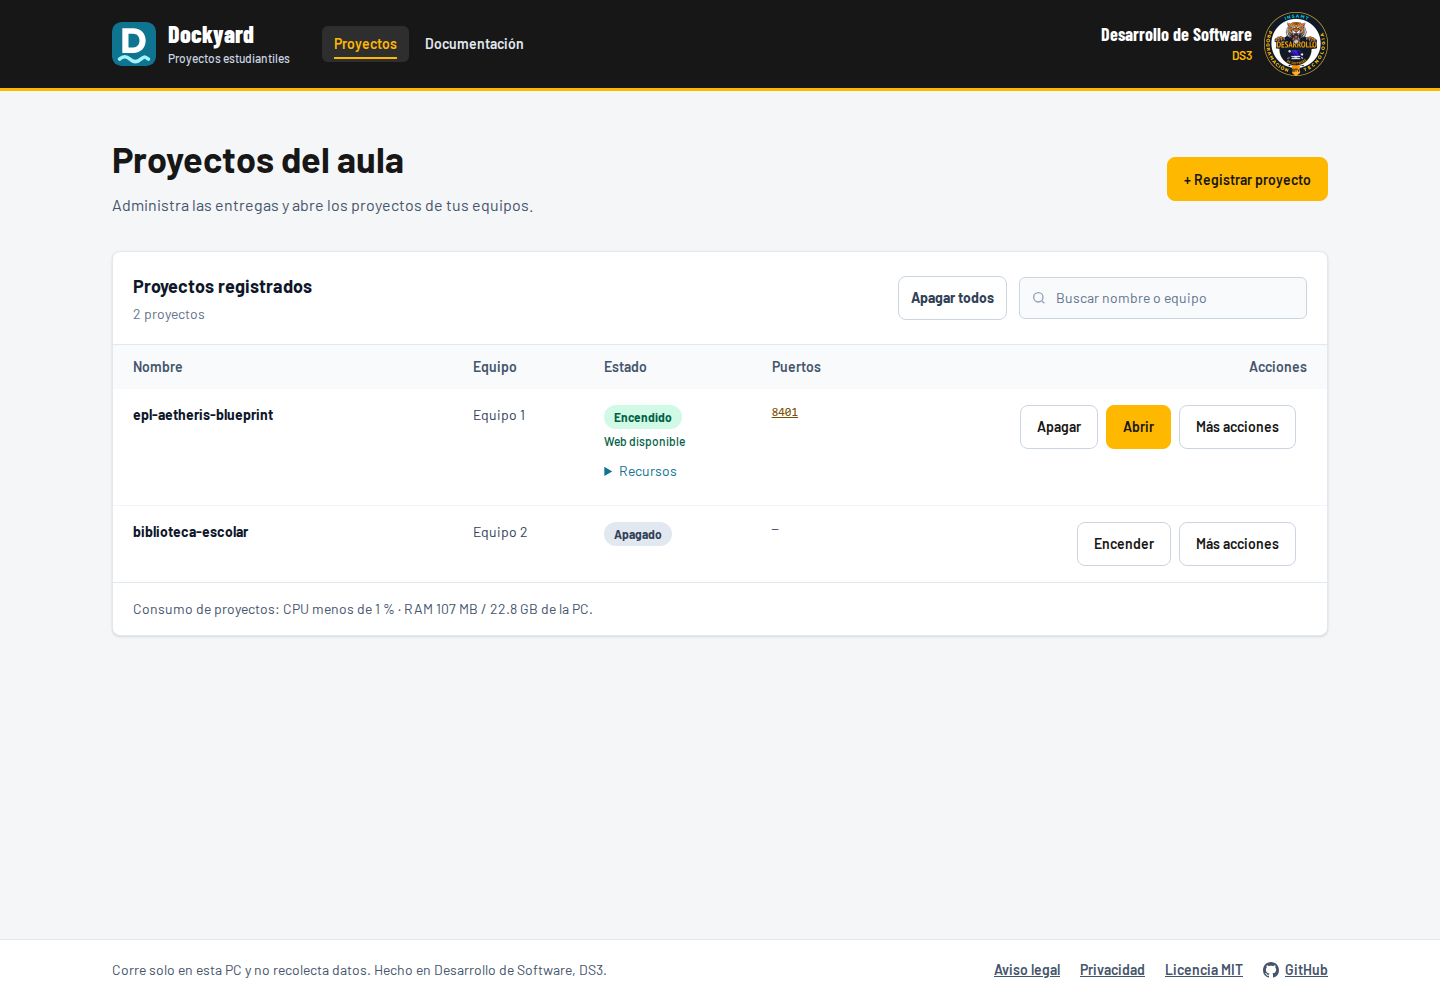
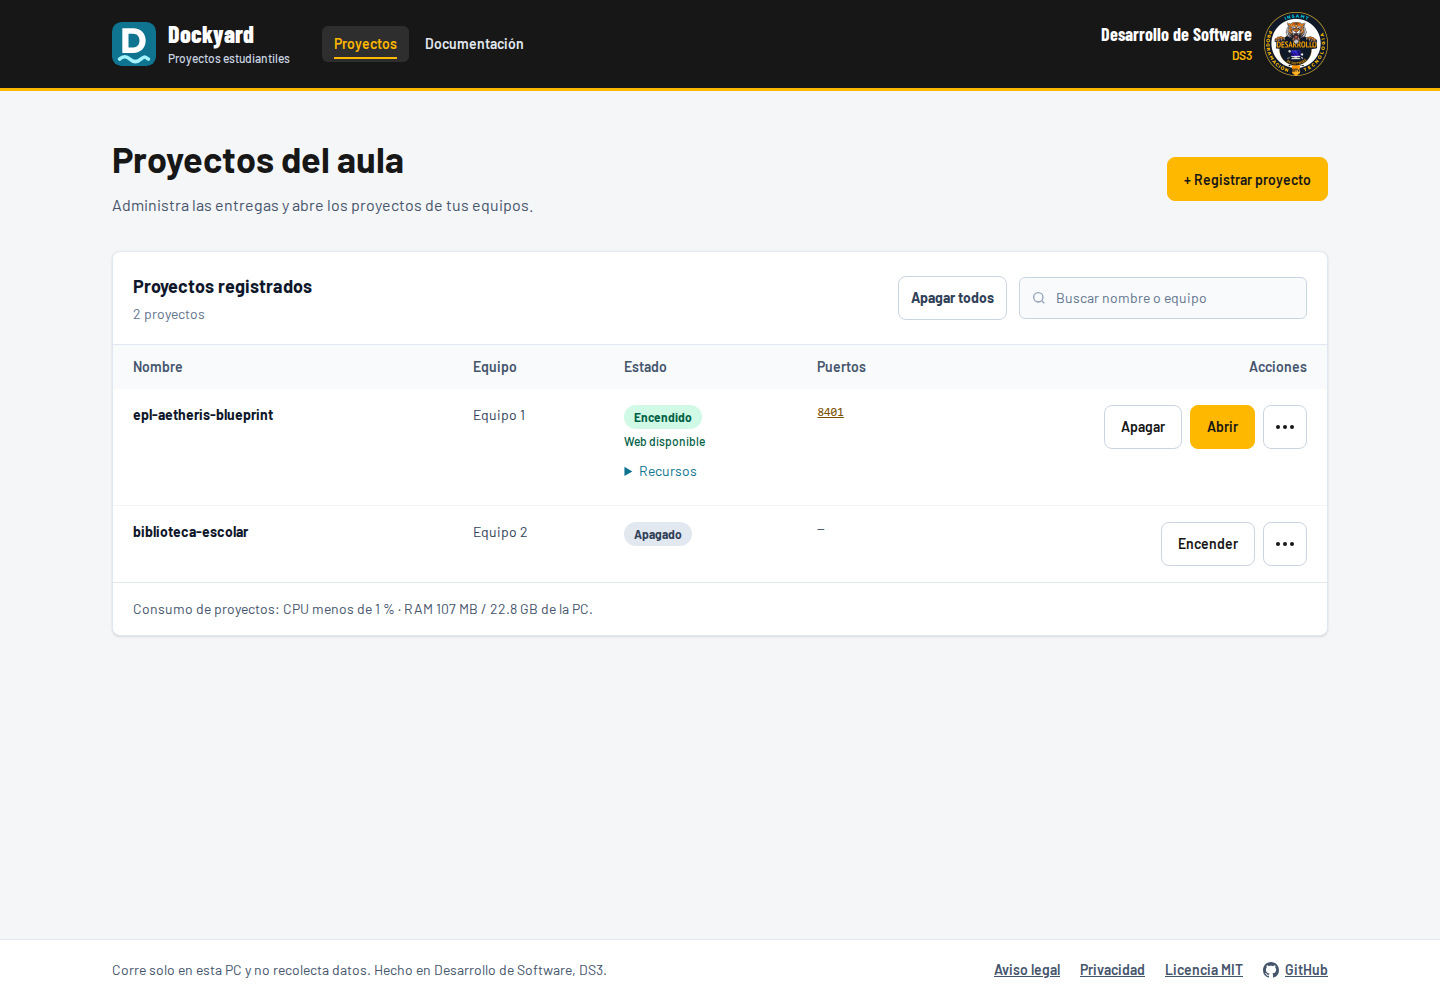
Usar un icono de tres puntos para las acciones secundarias

diff --git a/web/src/scripts/projects/rows/project-row.ts b/web/src/scripts/projects/rows/project-row.ts
@@ -184,7 +184,22 @@ function actionsCell(project: Project, handlers: RowHandlers): HTMLTableCellElem
   const stack = element('div', 'flex flex-col items-end gap-2')
   const menu = element('details', 'project-menu')
   menu.dataset.disclosure = 'actions'
-  const summary = element('summary', 'ui-button', 'Más acciones')
+  const summary = element('summary', 'ui-button')
+  summary.title = 'Más acciones'
+  const icon = document.createElementNS('http://www.w3.org/2000/svg', 'svg')
+  icon.setAttribute('viewBox', '0 0 24 24')
+  icon.setAttribute('width', '24')
+  icon.setAttribute('height', '24')
+  icon.setAttribute('fill', 'currentColor')
+  icon.setAttribute('aria-hidden', 'true')
+  for (const cx of [5, 12, 19]) {
+    const dot = document.createElementNS('http://www.w3.org/2000/svg', 'circle')
+    dot.setAttribute('cx', String(cx))
+    dot.setAttribute('cy', '12')
+    dot.setAttribute('r', '2')
+    icon.append(dot)
+  }
+  summary.append(icon)
   summary.dataset.action = 'menu'
   summary.setAttribute('aria-label', `Más acciones de ${project.name}`)
   menu.append(summary, secondary)

diff --git a/web/src/styles/global.css b/web/src/styles/global.css
@@ -279,10 +279,12 @@ body:has(dialog[open]) {
   gap: .5rem;
 }
 .project-menu {
-  min-width: 8rem;
+  min-width: 44px;
   text-align: left;
 }
 .project-menu > summary {
+  width: 44px;
+  padding: 0;
   list-style: none;
 }
 .project-menu > summary::-webkit-details-marker {

diff --git a/docs/manual-usuario.md b/docs/manual-usuario.md
@@ -34,7 +34,7 @@ Que no aparezcan avisos no garantiza que el proyecto sea seguro, así que regist
 
 ## Buscar, encender, apagar y abrir
 
-**Abrir** y **Encender/Apagar** están siempre a mano. En **Más acciones** están **Actualizar**, **Reemplazar ZIP**, **Editar**, **Ver registro** y **Eliminar**, según el origen del proyecto. En pantallas pequeñas cada proyecto se presenta en una fila apilada.
+**Abrir** y **Encender/Apagar** están siempre a mano. En el botón de tres puntos (**⋯**, Más acciones) están **Actualizar**, **Reemplazar ZIP**, **Editar**, **Ver registro** y **Eliminar**, según el origen del proyecto. En pantallas pequeñas cada proyecto se presenta en una fila apilada.
 
 - **Buscar:** escribe parte del nombre del proyecto o del equipo en **Buscar nombre o equipo**. No importan las mayúsculas ni las tildes.
 - **Encender:** la primera vez puede tardar varios minutos, porque Docker descarga y construye las imágenes del proyecto. Mientras tanto, el botón dice **Encendiendo…** y debajo del proyecto se ve qué está haciendo Docker, cuánto lleva y sus últimas líneas. Puedes recargar la página sin interrumpirlo, pero si falla mientras tanto no verás el motivo: usa **Ver registro**. Las siguientes veces es rápido.
